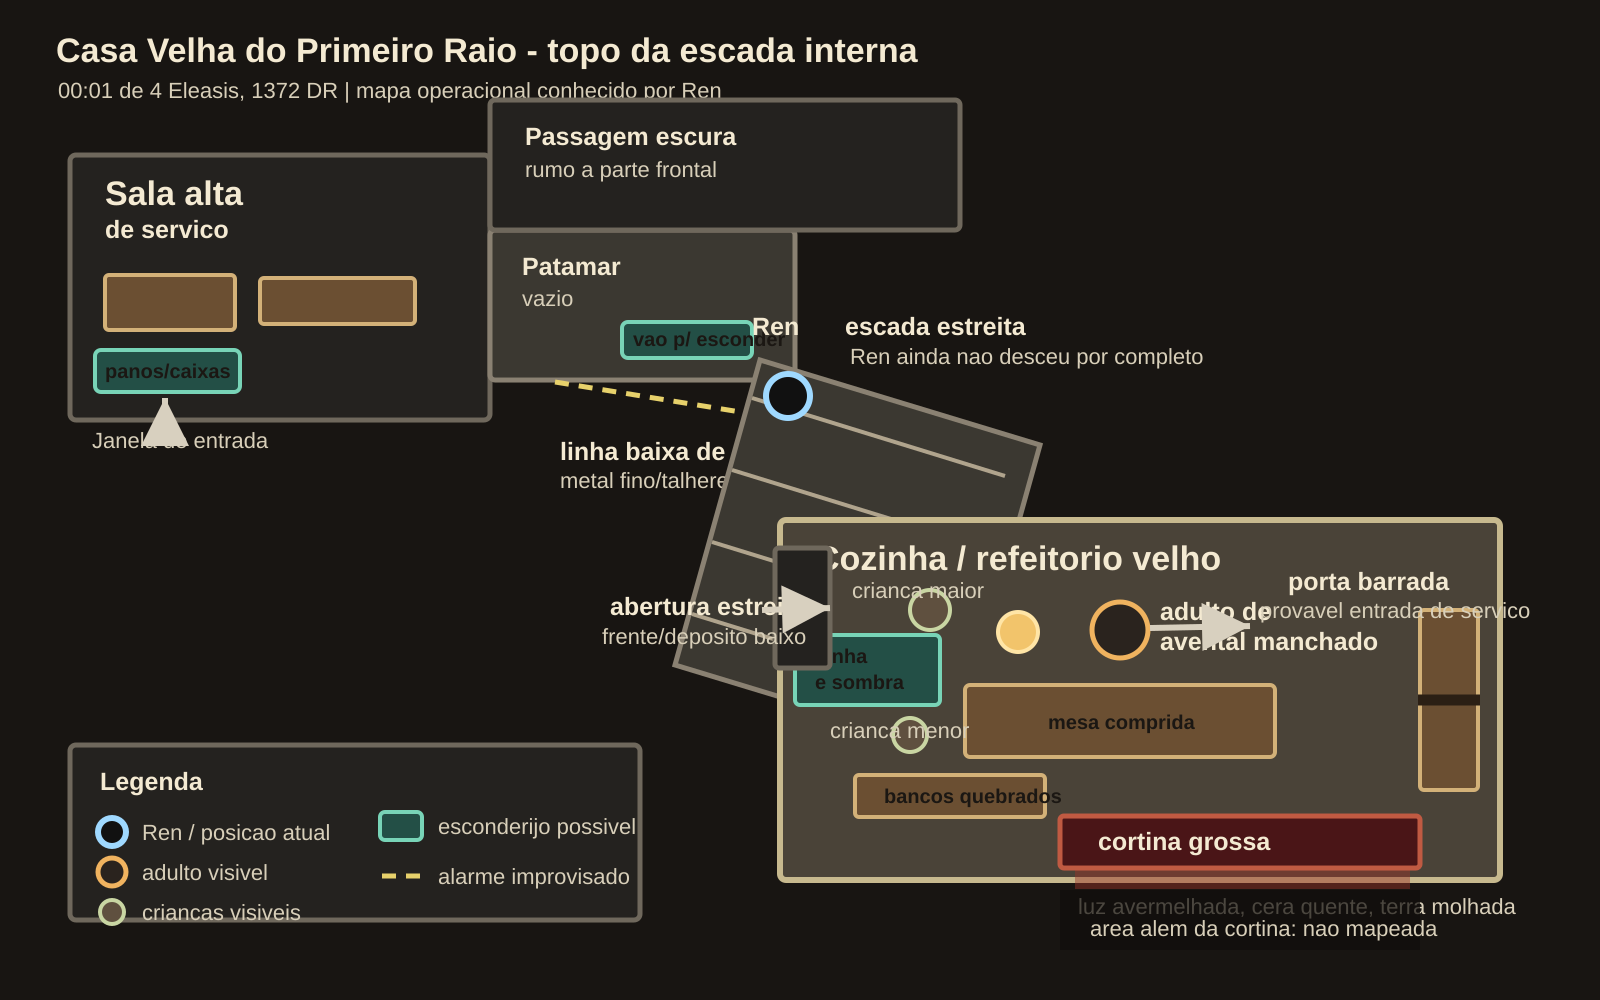
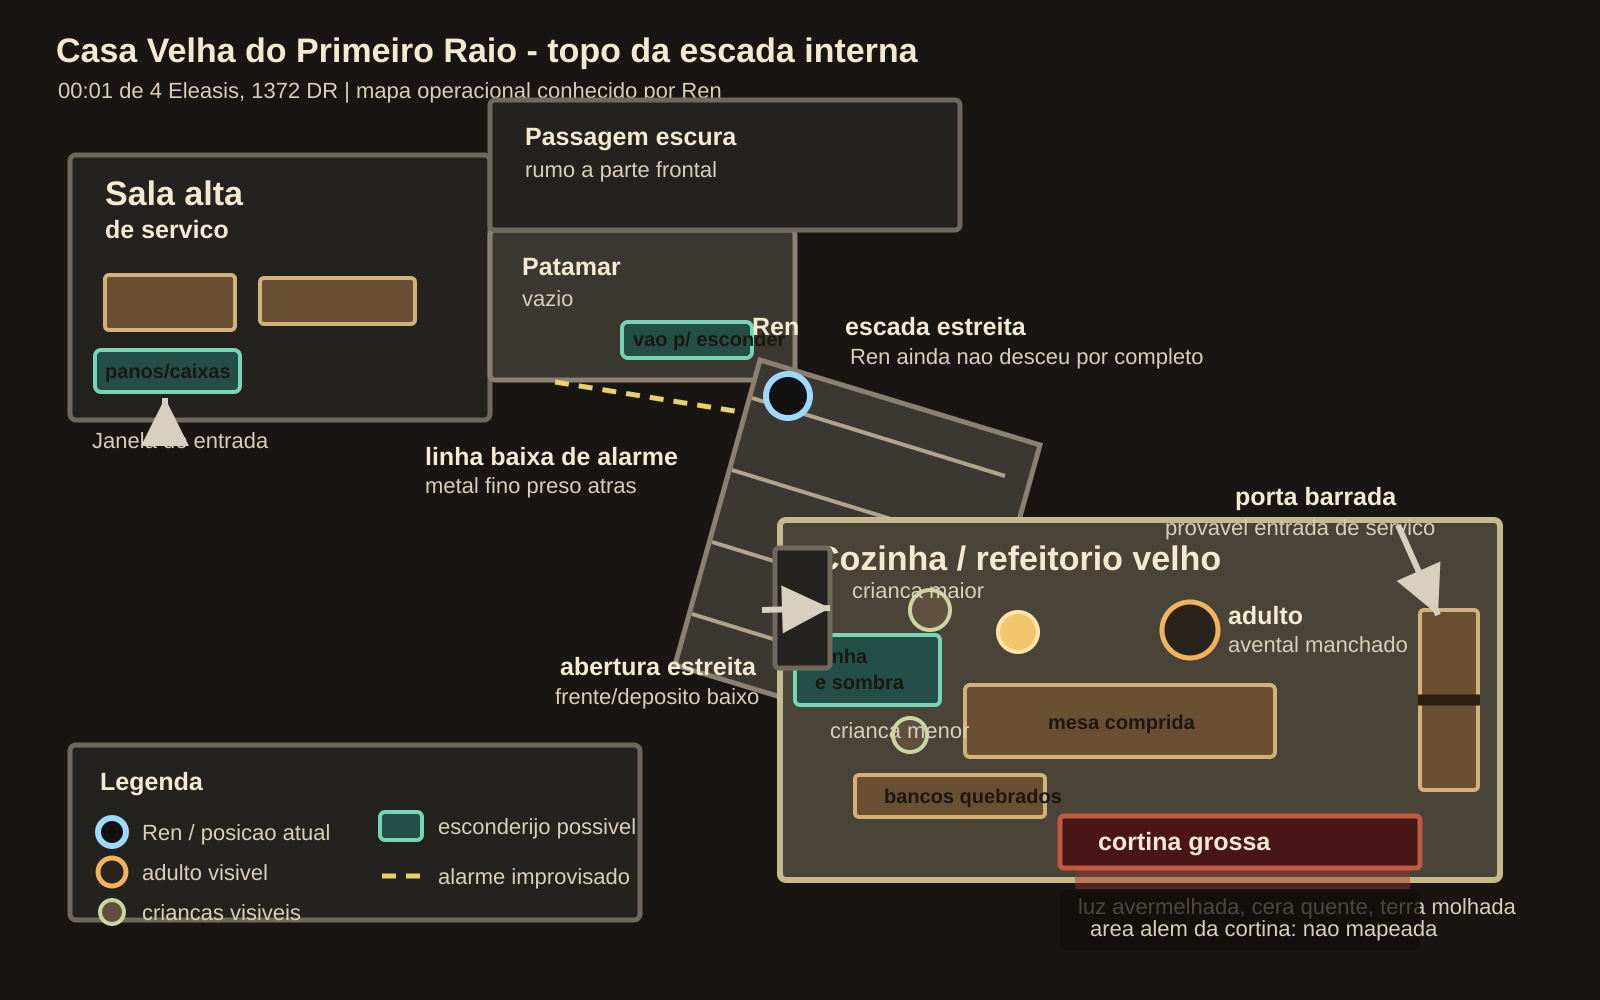
Ren apaga Toll

Changed region(s): [[0.6562, 0.465, 0.9688, 0.682], [0.3438, 0.589, 0.5, 0.713], [0.25, 0.434, 0.4688, 0.496]]

diff --git a/sessoes/002/transcricao.md b/sessoes/002/transcricao.md
@@ -3049,3 +3049,85 @@ Mas agora Ren sabe que há crianças entre ele e qualquer resposta simples.
 Situação: **Ren 31/31 PV, CA 17, Ki 2/4, 24 PO, 9 shuriken**. **Passos sem Pegadas** segue ativo por concentração até cerca de **00:58 de 4 Eleasis**. Hora aproximada: **00:01 de 4 Eleasis, 1372 DR**. Ren está no topo da escada interna de serviço. Abaixo há uma cozinha/refeitório velho com um adulto de avental manchado, pelo menos duas crianças visíveis, uma passagem coberta por cortina ao fundo, uma porta barrada que provavelmente liga à entrada de serviço e uma abertura estreita lateral.
 
 O que Ren faz?
+
+**Jogador**
+
+Ren se aproxima furtivamente do homem. Gasta um de ki e tenta apagar o homem silenciosamente com seu ataque surpresa e Rajada de Golpes. Se ele conseguir apagá-lo, ele segurará o corpo para não cair de uma vez, e fará sinal para as crianças ficarem em silêncio. Se as crianças ficarem em silêncio, Ren pedirá ajuda pra encobrir o homem rapidamente, e dirá as crianças que se alguém aparecer, falar que o homem ouviu um barulho lá fora e foi resolver, mas ainda não voltou. Ele fala isso pra caso alguém apareça enquanto ele interroga as crianças sobre o que está acontecendo ali e se há mais crianças presas.
+
+**Narrador**
+
+Aproximar-se do homem de avental sem alertar a cozinha: d20 18 + 16 = 34 contra CD 17. Sucesso.
+Golpe surpresa não letal contra o homem de avental: d20 com vantagem [5, 10] -> 10 + 6 = 16 contra CA 12. Acerto. Dano: 1d4 2 + 4 = 6 contundente.
+Rajada de Golpes 1 contra o homem de avental: d20 14 + 6 = 20 contra CA 12. Acerto. Dano: 1d4 3 + 4 = 7 contundente.
+Rajada de Golpes 2 contra o homem de avental: d20 2 + 6 = 8 contra CA 12. Erro.
+Controlar o corpo inconsciente antes de bater no chão: d20 10 + 6 = 16 contra CD 13. Sucesso.
+Reação das crianças ao sinal de silêncio: d20 17 + 2 = 19 contra CD 12. Sucesso.
+Encobrir rapidamente o homem inconsciente com ajuda das crianças: d20 com vantagem [18, 17] -> 18 + 6 = 24 contra CD 14. Sucesso.
+
+Ren desce.
+
+Não rápido. Não teatral. Só inevitável.
+
+O homem de avental não olha para cima a tempo. A primeira pancada entra na lateral do pescoço, curta, seca, feita para cortar força antes de cortar vida. O corpo dele tenta virar. A mão busca o cabo sobre a mesa.
+
+Ren já está dentro da distância.
+
+O segundo golpe acerta abaixo da mandíbula, empurrando o ar para fora do homem num som menor que uma tosse. O terceiro passa raspando quando o corpo dele amolece antes da trajetória prevista, mas já não importa. Os joelhos cedem.
+
+Ren segura o peso antes que ele encontre a pedra.
+
+Por um instante, o mundo inteiro vira uma coisa só: o braço de Ren por baixo do ombro do homem, o avental áspero, o cheiro de suor velho e farinha azeda, a lamparina tremendo, os olhos da criança maior ficando enormes.
+
+Ren faz o sinal.
+
+A menor puxa ar pelo nariz, quase um soluço. A maior prende a boca dela com a própria mão antes que Ren precise mover um dedo. Não há grito.
+
+As duas entendem rápido demais. Isso diz mais sobre a casa do que qualquer explicação.
+
+Com a ajuda delas, o corpo vai para baixo da mesa comprida e depois para trás dos bancos quebrados. A maior empurra um pano engordurado por cima das pernas. A menor arrasta, com esforço silencioso, um cesto vazio para quebrar a forma humana. Ren ajeita lenha, sombra e banco num desenho que não enganaria busca cuidadosa, mas pode sobreviver a uma olhada apressada.
+
+A menina maior cochicha primeiro:
+
+"Toll."
+
+Ela aponta para o homem escondido.
+
+"Ele guarda a cozinha. E a porta. Não manda embaixo."
+
+A menor ainda está com os olhos no corpo. A maior responde por ela, rápido, baixo, tropeçando nas palavras:
+
+"Não chama guarda. Guarda devolve. Ou bate. Ou pergunta nome e depois eles acham."
+
+Quando Ren pergunta o que está acontecendo ali, ela olha para a cortina antes de olhar para ele.
+
+"Dão sopa. Dão canto. Primeiro é recado. Depois é vigia. Depois, se você vê coisa que não devia, não sai mais."
+
+Ela engole seco.
+
+"Tem caminho embaixo. Porão velho. Buraco para rua baixa. Eles fazem menino pequeno passar onde homem grande não passa. Papel, vela, pacote. Às vezes só olhar se tem guarda."
+
+A menor murmura algo que Ren quase perde.
+
+"Miri tá lá."
+
+A maior aperta a mão dela, mas confirma com a cabeça.
+
+"Miri. Doss. Cal. Mais embaixo ou atrás do pano. Não sei se todos juntos. Quando batem em cima, mandam correr para baixo."
+
+Ela repete a mentira que Ren deu, testando a frase como quem testa tábua podre:
+
+"Toll ouviu barulho lá fora. Foi ver. Ainda não voltou."
+
+Não soa natural. Mas soa possível, se dita por uma criança assustada para alguém que espera medo.
+
+Do outro lado da cortina grossa, a luz avermelhada mexe.
+
+Uma voz mais distante fala uma palavra que Ren não entende. Depois outra, mais clara:
+
+"Toll?"
+
+Ainda não é alarme. É chamada.
+
+Situação: **Ren 31/31 PV, CA 17, Ki 1/4, 24 PO, 9 shuriken**. **Passos sem Pegadas** segue ativo por concentração até cerca de **00:58 de 4 Eleasis**. Hora aproximada: **00:03 de 4 Eleasis, 1372 DR**. Toll, o adulto de avental, está inconsciente e escondido de modo apressado na cozinha/refeitório. As duas crianças ficaram em silêncio e cooperaram. Elas disseram que há mais crianças abaixo ou atrás da cortina, que os porões servem para recados/pacotes/esconderijo, e que alguém além da cortina acabou de chamar por Toll.
+
+O que Ren faz?

diff --git a/personagens/jogador/conhecimento.md b/personagens/jogador/conhecimento.md
@@ -2084,3 +2084,24 @@ Progressão:
 * Ren alcançou o nível 4 por marco narrativo após a primeira noite consolidada em Ravens Bluff;
 * o avanço veio de sobreviver à sequência inicial, proteger os Vell, conquistar base provisória com Jack Mooney, resolver a sabotagem do circo e descobrir que a caixa da Lua foi armadilha ligada a Masao ou agente próximo;
 * Ren agora tem 31 PV máximos, CA 17, 4 pontos de ki, Queda Lenta e Destreza 18 / Sabedoria 17.
+
+## Casa Velha do Primeiro Raio: infiltração noturna
+
+* Ren entrou pela janela alta acima da porta lateral sem gerar alarme;
+* Ren ativou **Passos sem Pegadas**, gastando 2 ki, com duração por concentração até cerca de 00:58 de 4 Eleasis;
+* dentro da sala alta de serviço, Ren encontrou ligação para um patamar/corredor de serviço;
+* no patamar, Ren percebeu passagem escura para a parte frontal, escada iluminada para baixo e uma linha baixa de alarme improvisado presa a metal fino;
+* Ren contornou o alarme e chegou ao topo da escada;
+* abaixo, havia cozinha/refeitório velho com adulto de avental manchado, duas crianças visíveis, porta barrada, abertura lateral e cortina grossa ao fundo;
+* imagens salvas: `sessoes/002/imagens/003-visao-escada-casa-velha.png`, `sessoes/002/imagens/004-mapa-escada-casa-velha.png` e `sessoes/002/imagens/004-mapa-escada-casa-velha.svg`;
+* Ren neutralizou o adulto de avental, chamado **Toll**, com golpes não letais e Rajada de Golpes, gastando 1 ki;
+* Toll está inconsciente e escondido de modo apressado sob banco, pano e lenha;
+* as duas crianças visíveis cooperaram em silêncio;
+* elas disseram que Toll guarda a cozinha e a porta, mas não manda embaixo;
+* elas disseram que a Casa Velha oferece sopa e canto, depois usa crianças para recados e vigia, e impede saída de quem vê coisa demais;
+* os porões têm caminho velho, buraco para rua baixa e são usados para papel, vela, pacote, esconderijo e observação de guardas;
+* as crianças mencionaram **Miri**, **Doss** e **Cal** como crianças mais abaixo ou atrás da cortina;
+* a mentira combinada, se alguém aparecer, é que Toll ouviu barulho lá fora e foi resolver, mas ainda não voltou;
+* alguém além da cortina chamou por Toll;
+* Ren está com 31/31 PV, CA 17, 1/4 ki, 24 PO e 9 shuriken;
+* hora aproximada: 00:03 de 4 Eleasis, 1372 DR.

diff --git a/narrador/sessoes/001/relogios.md b/narrador/sessoes/001/relogios.md
@@ -12,7 +12,7 @@ Visibilidade: oculto.
 
 Progresso inicial: 1/6.
 
-Progresso atual: 1/6.
+Progresso atual: 0/6.
 
 Último avanço:
 
@@ -183,6 +183,7 @@ Observação recente:
 * Ren iniciou sondagem externa da Casa Velha do Primeiro Raio na manhã seguinte ao Benefício da Lona Aberta. Identificou marcas de sol riscado, trânsito por viela lateral, provável entrada de serviço nos fundos, ponto de observação improvisado e possíveis observadores, sem entrar e sem gerar alarme. Não há avanço do relógio neste momento.
 * Ren observou a Casa Velha por quase três horas a partir de ponto alto discreto, sem abordagem direta e sem alarme. Identificou padrão de uso da viela/porta de serviço, crianças como olhos externos e adulto de avental manchado usando a rota. Não há avanço do relógio neste momento.
 * Na noite de 3 Eleasis, Ren voltou à Casa Velha, ocupou o ponto de observação anterior sem alarme e alcançou a viela lateral diante da porta de serviço. A observação noturna não revelou detalhes finos do interior, mas confirmou a lateral como eixo real. Não há avanço do relógio neste momento.
+* Na madrugada de 4 Eleasis, Ren entrou pela janela alta, chegou à cozinha/refeitório velho, encontrou crianças dentro e neutralizou Toll, adulto de avental que guardava a cozinha/porta, sem gerar alarme. O relógio regride porque Ren encontrou crianças vivas e abriu uma janela real de resgate/informação antes de elas serem movidas.
 
 Descrição:
 
